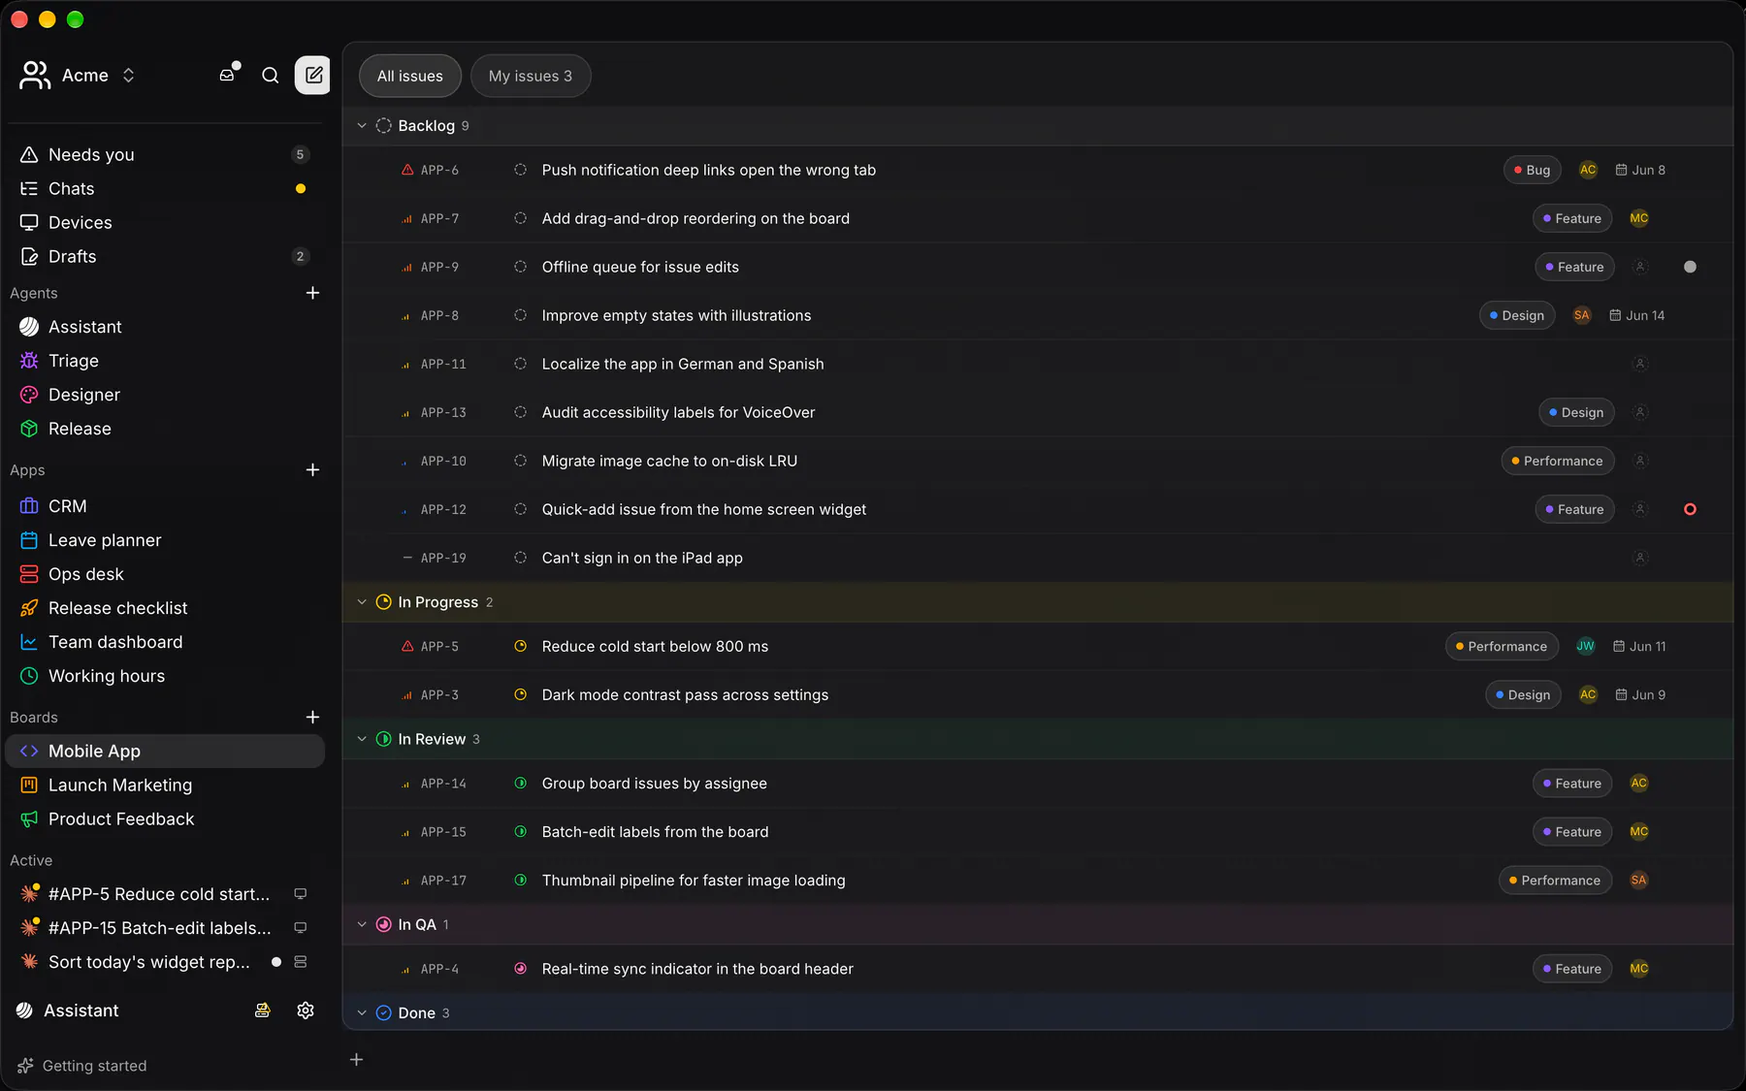
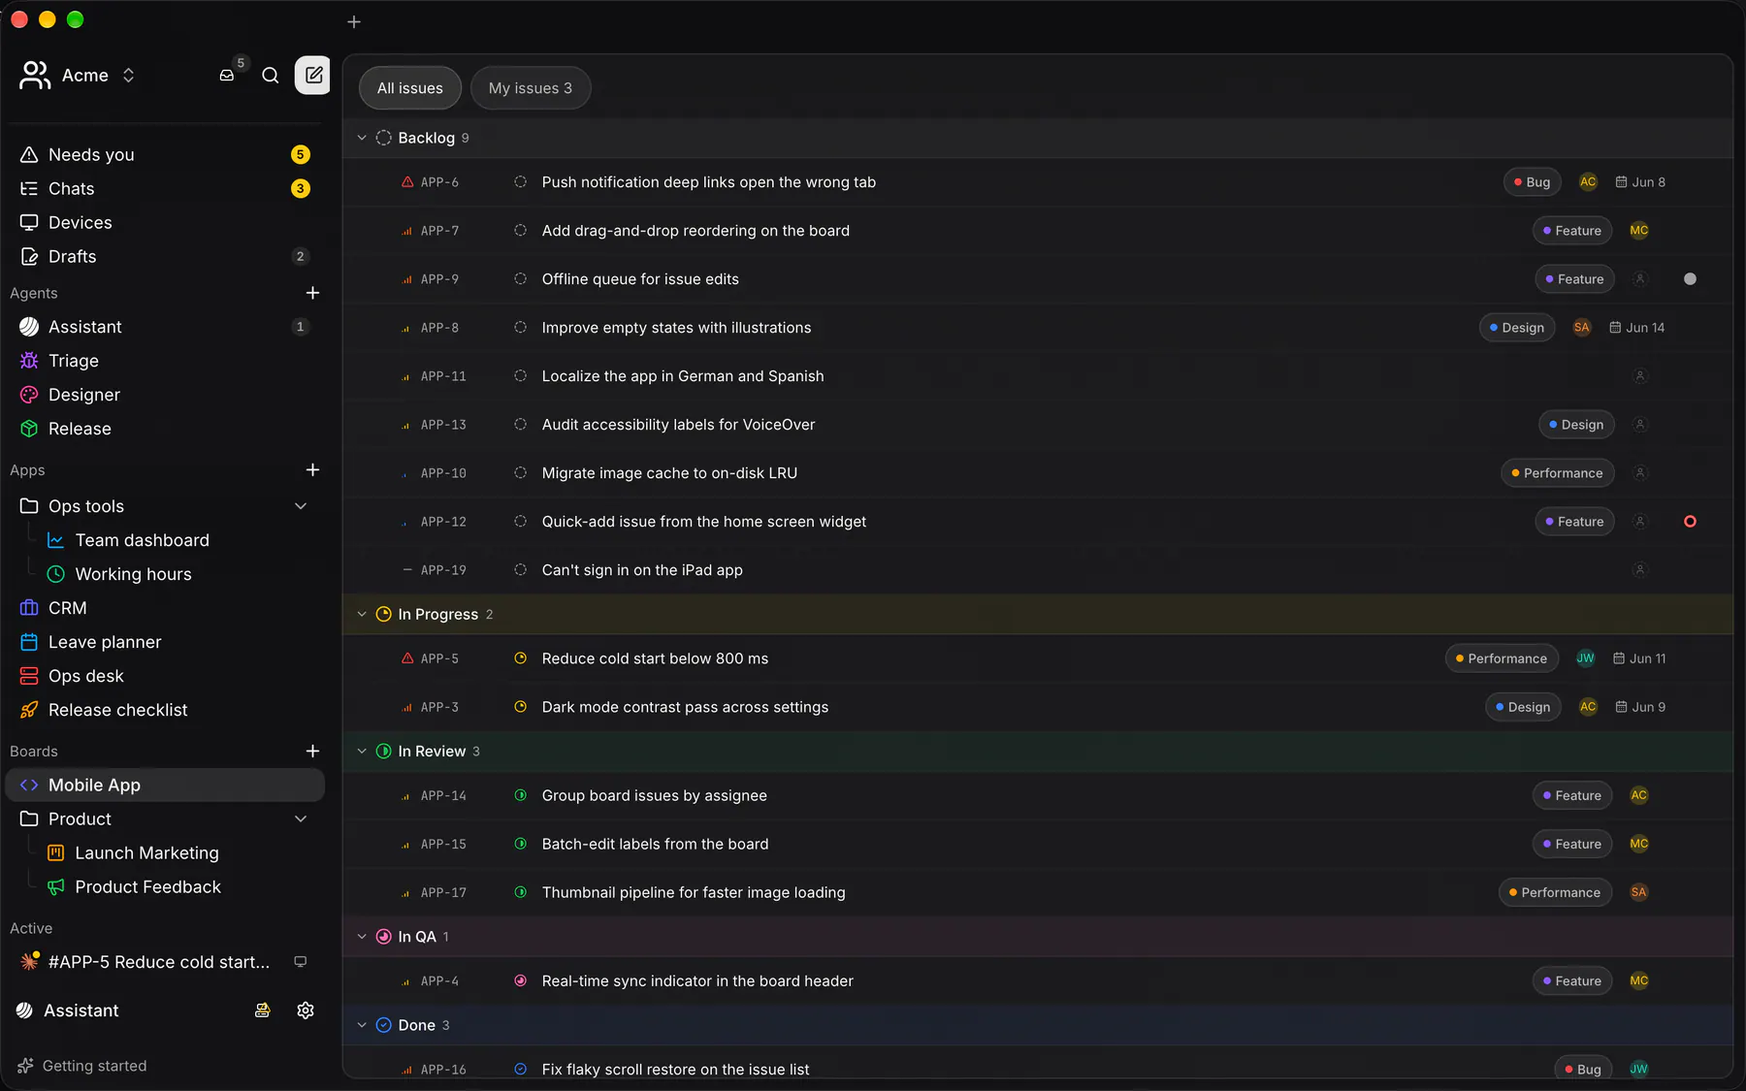
EXP-1832: desktop sidebar folders verified: the name Input's field part id (focus + read), leaving the name saves and Esc keeps it (as on the web), headless folder pictures + right-click Rename/Esc check, board desktop shot with the seeded folders

diff --git a/apps/web/src/routeTree.gen.ts b/apps/web/src/routeTree.gen.ts
@@ -67,7 +67,6 @@ import { Route as ApiShapesCiJobsRouteImport } from './routes/api/shapes/ci-jobs
 import { Route as ApiShapesCiRunsRouteImport } from './routes/api/shapes/ci-runs'
 import { Route as ApiShapesCommentsRouteImport } from './routes/api/shapes/comments'
 import { Route as ApiShapesComposerDraftsRouteImport } from './routes/api/shapes/composer-drafts'
-import { Route as ApiShapesSidebarLayoutRouteImport } from './routes/api/shapes/sidebar-layout'
 import { Route as ApiShapesConversationsRouteImport } from './routes/api/shapes/conversations'
 import { Route as ApiShapesDeviceWorktreesRouteImport } from './routes/api/shapes/device-worktrees'
 import { Route as ApiShapesDevicesRouteImport } from './routes/api/shapes/devices'
@@ -90,6 +89,7 @@ import { Route as ApiShapesPullRequestsRouteImport } from './routes/api/shapes/p
 import { Route as ApiShapesSessionIssuesRouteImport } from './routes/api/shapes/session-issues'
 import { Route as ApiShapesSessionReadsRouteImport } from './routes/api/shapes/session-reads'
 import { Route as ApiShapesSessionsRouteImport } from './routes/api/shapes/sessions'
+import { Route as ApiShapesSidebarLayoutRouteImport } from './routes/api/shapes/sidebar-layout'
 import { Route as ApiShapesSkillsRouteImport } from './routes/api/shapes/skills'
 import { Route as ApiShapesTeamInvitesRouteImport } from './routes/api/shapes/team-invites'
 import { Route as ApiShapesTeamMembersRouteImport } from './routes/api/shapes/team-members'
@@ -472,11 +472,6 @@ const ApiShapesComposerDraftsRoute = ApiShapesComposerDraftsRouteImport.update({
   path: '/api/shapes/composer-drafts',
   getParentRoute: () => rootRouteImport,
 } as any)
-const ApiShapesSidebarLayoutRoute = ApiShapesSidebarLayoutRouteImport.update({
-  id: '/api/shapes/sidebar-layout',
-  path: '/api/shapes/sidebar-layout',
-  getParentRoute: () => rootRouteImport,
-} as any)
 const ApiShapesConversationsRoute = ApiShapesConversationsRouteImport.update({
   id: '/api/shapes/conversations',
   path: '/api/shapes/conversations',
@@ -589,6 +584,11 @@ const ApiShapesSessionReadsRoute = ApiShapesSessionReadsRouteImport.update({
 const ApiShapesSessionsRoute = ApiShapesSessionsRouteImport.update({
   id: '/api/shapes/sessions',
   path: '/api/shapes/sessions',
+  getParentRoute: () => rootRouteImport,
+} as any)
+const ApiShapesSidebarLayoutRoute = ApiShapesSidebarLayoutRouteImport.update({
+  id: '/api/shapes/sidebar-layout',
+  path: '/api/shapes/sidebar-layout',
   getParentRoute: () => rootRouteImport,
 } as any)
 const ApiShapesSkillsRoute = ApiShapesSkillsRouteImport.update({
@@ -1093,7 +1093,6 @@ export interface FileRoutesByFullPath {
   '/api/shapes/ci-runs': typeof ApiShapesCiRunsRoute
   '/api/shapes/comments': typeof ApiShapesCommentsRoute
   '/api/shapes/composer-drafts': typeof ApiShapesComposerDraftsRoute
-  '/api/shapes/sidebar-layout': typeof ApiShapesSidebarLayoutRoute
   '/api/shapes/conversations': typeof ApiShapesConversationsRoute
   '/api/shapes/device-worktrees': typeof ApiShapesDeviceWorktreesRoute
   '/api/shapes/devices': typeof ApiShapesDevicesRoute
@@ -1116,6 +1115,7 @@ export interface FileRoutesByFullPath {
   '/api/shapes/session-issues': typeof ApiShapesSessionIssuesRoute
   '/api/shapes/session-reads': typeof ApiShapesSessionReadsRoute
   '/api/shapes/sessions': typeof ApiShapesSessionsRoute
+  '/api/shapes/sidebar-layout': typeof ApiShapesSidebarLayoutRoute
   '/api/shapes/skills': typeof ApiShapesSkillsRoute
   '/api/shapes/team-invites': typeof ApiShapesTeamInvitesRoute
   '/api/shapes/team-members': typeof ApiShapesTeamMembersRoute
@@ -1253,7 +1253,6 @@ export interface FileRoutesByTo {
   '/api/shapes/ci-runs': typeof ApiShapesCiRunsRoute
   '/api/shapes/comments': typeof ApiShapesCommentsRoute
   '/api/shapes/composer-drafts': typeof ApiShapesComposerDraftsRoute
-  '/api/shapes/sidebar-layout': typeof ApiShapesSidebarLayoutRoute
   '/api/shapes/conversations': typeof ApiShapesConversationsRoute
   '/api/shapes/device-worktrees': typeof ApiShapesDeviceWorktreesRoute
   '/api/shapes/devices': typeof ApiShapesDevicesRoute
@@ -1276,6 +1275,7 @@ export interface FileRoutesByTo {
   '/api/shapes/session-issues': typeof ApiShapesSessionIssuesRoute
   '/api/shapes/session-reads': typeof ApiShapesSessionReadsRoute
   '/api/shapes/sessions': typeof ApiShapesSessionsRoute
+  '/api/shapes/sidebar-layout': typeof ApiShapesSidebarLayoutRoute
   '/api/shapes/skills': typeof ApiShapesSkillsRoute
   '/api/shapes/team-invites': typeof ApiShapesTeamInvitesRoute
   '/api/shapes/team-members': typeof ApiShapesTeamMembersRoute
@@ -1418,7 +1418,6 @@ export interface FileRoutesById {
   '/api/shapes/ci-runs': typeof ApiShapesCiRunsRoute
   '/api/shapes/comments': typeof ApiShapesCommentsRoute
   '/api/shapes/composer-drafts': typeof ApiShapesComposerDraftsRoute
-  '/api/shapes/sidebar-layout': typeof ApiShapesSidebarLayoutRoute
   '/api/shapes/conversations': typeof ApiShapesConversationsRoute
   '/api/shapes/device-worktrees': typeof ApiShapesDeviceWorktreesRoute
   '/api/shapes/devices': typeof ApiShapesDevicesRoute
@@ -1441,6 +1440,7 @@ export interface FileRoutesById {
   '/api/shapes/session-issues': typeof ApiShapesSessionIssuesRoute
   '/api/shapes/session-reads': typeof ApiShapesSessionReadsRoute
   '/api/shapes/sessions': typeof ApiShapesSessionsRoute
+  '/api/shapes/sidebar-layout': typeof ApiShapesSidebarLayoutRoute
   '/api/shapes/skills': typeof ApiShapesSkillsRoute
   '/api/shapes/team-invites': typeof ApiShapesTeamInvitesRoute
   '/api/shapes/team-members': typeof ApiShapesTeamMembersRoute
@@ -1583,7 +1583,6 @@ export interface FileRouteTypes {
     | '/api/shapes/ci-runs'
     | '/api/shapes/comments'
     | '/api/shapes/composer-drafts'
-    | '/api/shapes/sidebar-layout'
     | '/api/shapes/conversations'
     | '/api/shapes/device-worktrees'
     | '/api/shapes/devices'
@@ -1606,6 +1605,7 @@ export interface FileRouteTypes {
     | '/api/shapes/session-issues'
     | '/api/shapes/session-reads'
     | '/api/shapes/sessions'
+    | '/api/shapes/sidebar-layout'
     | '/api/shapes/skills'
     | '/api/shapes/team-invites'
     | '/api/shapes/team-members'
@@ -1743,7 +1743,6 @@ export interface FileRouteTypes {
     | '/api/shapes/ci-runs'
     | '/api/shapes/comments'
     | '/api/shapes/composer-drafts'
-    | '/api/shapes/sidebar-layout'
     | '/api/shapes/conversations'
     | '/api/shapes/device-worktrees'
     | '/api/shapes/devices'
@@ -1766,6 +1765,7 @@ export interface FileRouteTypes {
     | '/api/shapes/session-issues'
     | '/api/shapes/session-reads'
     | '/api/shapes/sessions'
+    | '/api/shapes/sidebar-layout'
     | '/api/shapes/skills'
     | '/api/shapes/team-invites'
     | '/api/shapes/team-members'
@@ -1907,7 +1907,6 @@ export interface FileRouteTypes {
     | '/api/shapes/ci-runs'
     | '/api/shapes/comments'
     | '/api/shapes/composer-drafts'
-    | '/api/shapes/sidebar-layout'
     | '/api/shapes/conversations'
     | '/api/shapes/device-worktrees'
     | '/api/shapes/devices'
@@ -1930,6 +1929,7 @@ export interface FileRouteTypes {
     | '/api/shapes/session-issues'
     | '/api/shapes/session-reads'
     | '/api/shapes/sessions'
+    | '/api/shapes/sidebar-layout'
     | '/api/shapes/skills'
     | '/api/shapes/team-invites'
     | '/api/shapes/team-members'
@@ -2061,7 +2061,6 @@ export interface RootRouteChildren {
   ApiShapesCiRunsRoute: typeof ApiShapesCiRunsRoute
   ApiShapesCommentsRoute: typeof ApiShapesCommentsRoute
   ApiShapesComposerDraftsRoute: typeof ApiShapesComposerDraftsRoute
-  ApiShapesSidebarLayoutRoute: typeof ApiShapesSidebarLayoutRoute
   ApiShapesConversationsRoute: typeof ApiShapesConversationsRoute
   ApiShapesDeviceWorktreesRoute: typeof ApiShapesDeviceWorktreesRoute
   ApiShapesDevicesRoute: typeof ApiShapesDevicesRoute
@@ -2084,6 +2083,7 @@ export interface RootRouteChildren {
   ApiShapesSessionIssuesRoute: typeof ApiShapesSessionIssuesRoute
   ApiShapesSessionReadsRoute: typeof ApiShapesSessionReadsRoute
   ApiShapesSessionsRoute: typeof ApiShapesSessionsRoute
+  ApiShapesSidebarLayoutRoute: typeof ApiShapesSidebarLayoutRoute
   ApiShapesSkillsRoute: typeof ApiShapesSkillsRoute
   ApiShapesTeamInvitesRoute: typeof ApiShapesTeamInvitesRoute
   ApiShapesTeamMembersRoute: typeof ApiShapesTeamMembersRoute
@@ -2521,13 +2521,6 @@ declare module '@tanstack/react-router' {
       preLoaderRoute: typeof ApiShapesComposerDraftsRouteImport
       parentRoute: typeof rootRouteImport
     }
-    '/api/shapes/sidebar-layout': {
-      id: '/api/shapes/sidebar-layout'
-      path: '/api/shapes/sidebar-layout'
-      fullPath: '/api/shapes/sidebar-layout'
-      preLoaderRoute: typeof ApiShapesSidebarLayoutRouteImport
-      parentRoute: typeof rootRouteImport
-    }
     '/api/shapes/conversations': {
       id: '/api/shapes/conversations'
       path: '/api/shapes/conversations'
@@ -2680,6 +2673,13 @@ declare module '@tanstack/react-router' {
       path: '/api/shapes/sessions'
       fullPath: '/api/shapes/sessions'
       preLoaderRoute: typeof ApiShapesSessionsRouteImport
+      parentRoute: typeof rootRouteImport
+    }
+    '/api/shapes/sidebar-layout': {
+      id: '/api/shapes/sidebar-layout'
+      path: '/api/shapes/sidebar-layout'
+      fullPath: '/api/shapes/sidebar-layout'
+      preLoaderRoute: typeof ApiShapesSidebarLayoutRouteImport
       parentRoute: typeof rootRouteImport
     }
     '/api/shapes/skills': {
@@ -3492,7 +3492,6 @@ const rootRouteChildren: RootRouteChildren = {
   ApiShapesCiRunsRoute: ApiShapesCiRunsRoute,
   ApiShapesCommentsRoute: ApiShapesCommentsRoute,
   ApiShapesComposerDraftsRoute: ApiShapesComposerDraftsRoute,
-  ApiShapesSidebarLayoutRoute: ApiShapesSidebarLayoutRoute,
   ApiShapesConversationsRoute: ApiShapesConversationsRoute,
   ApiShapesDeviceWorktreesRoute: ApiShapesDeviceWorktreesRoute,
   ApiShapesDevicesRoute: ApiShapesDevicesRoute,
@@ -3515,6 +3514,7 @@ const rootRouteChildren: RootRouteChildren = {
   ApiShapesSessionIssuesRoute: ApiShapesSessionIssuesRoute,
   ApiShapesSessionReadsRoute: ApiShapesSessionReadsRoute,
   ApiShapesSessionsRoute: ApiShapesSessionsRoute,
+  ApiShapesSidebarLayoutRoute: ApiShapesSidebarLayoutRoute,
   ApiShapesSkillsRoute: ApiShapesSkillsRoute,
   ApiShapesTeamInvitesRoute: ApiShapesTeamInvitesRoute,
   ApiShapesTeamMembersRoute: ApiShapesTeamMembersRoute,

diff --git a/apps/desktop/crates/ui/src/shell_bench.rs b/apps/desktop/crates/ui/src/shell_bench.rs
@@ -517,3 +517,131 @@ fn shell_tab_placement() {
     std::mem::forget(cx);
     std::mem::forget(root);
 }
+
+/// #EXP-1832: the sidebar folders of the seeded demo (seed-screenshots.ts:
+/// board folder Product, app folder Ops tools), pictured at rest, folded,
+/// mid-drag (the line = reorder, the highlighted row = drop into) and with a
+/// fresh folder's name in place. The drags go through the real List drag core.
+#[test]
+#[ignore]
+fn shell_sidebar_folders() {
+    use gpui::{KeyDownEvent, Modifiers, MouseButton, MouseDownEvent, MouseMoveEvent, MouseUpEvent, PlatformInput};
+    let Some(dir) = std::env::var_os("EXP_SHELL_SHOTS") else { return };
+    let dir = PathBuf::from(dir);
+    let mut cx = headless();
+    cx.update(seeded);
+    let handle = open(&mut cx, size(px(SIDEBAR.0), px(SIDEBAR.1)));
+    let window: gpui::AnyWindowHandle = handle.into();
+    let region = cx.update(|cx| handle.entity(cx).expect("the rail").read(cx).region());
+    let surface = cx.update(|cx| region.read(cx).surface());
+    cx.update(|cx| surface.update(cx, |v, _| v.record_bounds(true)));
+    let settle = |cx: &mut HeadlessAppContext| {
+        for _ in 0..3 {
+            draw(window, cx);
+            cx.run_until_parked();
+        }
+    };
+    let shoot = |cx: &mut HeadlessAppContext, name: &str| {
+        let shot = cx.capture_screenshot(window).expect("the frame");
+        shot.save(dir.join(name)).expect("the PNG");
+    };
+    let show = |cx: &mut HeadlessAppContext, input: IdeSidebarInput| {
+        cx.update(|cx| region.update(cx, |region, cx| region.show(input, None, cx)));
+        settle(cx);
+    };
+    let bounds = |cx: &mut HeadlessAppContext, id: &str| cx.update(|cx| surface.read(cx).painted_bounds(id)).unwrap_or_else(|| panic!("{id} painted"));
+    let input = |cx: &mut HeadlessAppContext, event: PlatformInput| {
+        cx.update_window(window, |_, window, cx| {
+            window.dispatch_event(event, cx);
+        })
+        .expect("the window");
+        settle(cx);
+    };
+    let press = |cx: &mut HeadlessAppContext, at: gpui::Point<gpui::Pixels>| input(cx, PlatformInput::MouseDown(MouseDownEvent { button: MouseButton::Left, position: at, modifiers: Modifiers::default(), click_count: 1, first_mouse: false }));
+    let move_to = |cx: &mut HeadlessAppContext, at: gpui::Point<gpui::Pixels>| input(cx, PlatformInput::MouseMove(MouseMoveEvent { position: at, pressed_button: Some(MouseButton::Left), modifiers: Modifiers::default() }));
+
+    show(&mut cx, demo(Vec::new(), None));
+    shoot(&mut cx, "folders-rest.png");
+    show(&mut cx, demo(vec!["fa".into()], None));
+    shoot(&mut cx, "folders-folded.png");
+
+    // CRM lifted to Release checklist's top edge: a line, before it.
+    show(&mut cx, demo(Vec::new(), None));
+    let (from, to) = (bounds(&mut cx, "ide_app_row.x4"), bounds(&mut cx, "ide_app_row.x3"));
+    // Held by its bottom edge: the lifted copy rides above the pointer.
+    let grab = gpui::point(from.center().x, from.origin.y + from.size.height - px(2.));
+    press(&mut cx, grab);
+    move_to(&mut cx, gpui::point(grab.x, grab.y - px(6.)));
+    move_to(&mut cx, gpui::point(to.center().x, to.origin.y + px(3.)));
+    shoot(&mut cx, "folders-drag-line.png");
+    cx.update(|cx| surface.update(cx, |v, cx| v.list_drag_cancel(cx)));
+    settle(&mut cx);
+
+    // Leave planner held over Ops desk's middle: the row lights, drop INTO.
+    let (from, to) = (bounds(&mut cx, "ide_app_row.x5"), bounds(&mut cx, "ide_app_row.x6"));
+    let grab = gpui::point(from.center().x, from.origin.y + from.size.height - px(2.));
+    press(&mut cx, grab);
+    move_to(&mut cx, gpui::point(grab.x, grab.y + px(6.)));
+    move_to(&mut cx, gpui::point(to.center().x, to.origin.y + to.size.height * 0.3));
+    shoot(&mut cx, "folders-drag-into.png");
+    cx.update(|cx| surface.update(cx, |v, cx| v.list_drag_cancel(cx)));
+    settle(&mut cx);
+
+    // A folder's right-click menu: Rename puts its name in place, Esc keeps it.
+    let folder = bounds(&mut cx, "ide_app_folder_row.fa");
+    input(&mut cx, PlatformInput::MouseDown(MouseDownEvent { button: MouseButton::Right, position: folder.center(), modifiers: Modifiers::default(), click_count: 1, first_mouse: false }));
+    input(&mut cx, PlatformInput::MouseUp(MouseUpEvent { button: MouseButton::Right, position: folder.center(), modifiers: Modifiers::default(), click_count: 1 }));
+    assert!(cx.update(|cx| surface.read(cx).layers().iter().any(|l| l.owner == "ide_app_folder_menu.fa")), "the folder menu opened");
+    let rename = bounds(&mut cx, "ide_app_folder_menu.fa.item.0").center();
+    press(&mut cx, rename);
+    input(&mut cx, PlatformInput::MouseUp(MouseUpEvent { button: MouseButton::Left, position: rename, modifiers: Modifiers::default(), click_count: 1 }));
+    let name = "ide_app_folder_name.fa.field";
+    assert_eq!(cx.update(|cx| surface.read(cx).field_text(name, cx)).as_deref(), Some("Ops tools"), "Rename edits the name in place");
+    cx.update_window(window, |_, window, cx| {
+        assert!(surface.update(cx, |v, cx| v.focus_field(name, window, cx)));
+    })
+    .expect("the window");
+    settle(&mut cx);
+    input(&mut cx, PlatformInput::KeyDown(KeyDownEvent { keystroke: gpui::Keystroke::parse("escape").unwrap(), is_held: false, prefer_character_input: false }));
+    assert_eq!(cx.update(|cx| surface.read(cx).field_text(name, cx)), None, "Esc ends the edit");
+
+    // That drop: both rows in a new folder, its name an Input in place.
+    let mut after = demo(Vec::new(), None);
+    after.layout.app.extend([entry("fn", "folder", None, None, None, 3.), entry("e9", "item", Some("x6"), Some("fn"), None, 1.), entry("e10", "item", Some("x5"), Some("fn"), None, 2.)]);
+    show(&mut cx, after);
+    cx.update(|cx| region.update(cx, |region, cx| region.show_editing(Some("fn"), cx)));
+    settle(&mut cx);
+    // The region focuses it on the next frame, which a headless window never
+    // requests: focus the same field by hand.
+    cx.update_window(window, |_, window, cx| {
+        assert!(surface.update(cx, |v, cx| v.focus_field("ide_app_folder_name.fn.field", window, cx)), "the name Input");
+    })
+    .expect("the window");
+    settle(&mut cx);
+    assert_eq!(cx.update(|cx| surface.read(cx).field_text("ide_app_folder_name.fn.field", cx)).as_deref(), Some("New folder"));
+    shoot(&mut cx, "folders-rename.png");
+    std::mem::forget(cx);
+}
+
+/// The seeded demo's rows (seed-screenshots.ts), Mobile App open.
+fn demo(closed: Vec<String>, editing: Option<&str>) -> IdeSidebarInput {
+    let agent = |id: &str, name: &str| IdeAgentInput { id: id.into(), name: name.into(), icon: "settings-agents".into(), needs_you: false, unread: 0 };
+    let board = |id: &str, name: &str| IdeBoardInput { id: id.into(), name: name.into(), icon: format!("ide:board:{id}") };
+    let app = |id: &str, name: &str| IdeAppInput { id: id.into(), slug: id.into(), name: name.into(), icon: "ui-file".into() };
+    IdeSidebarInput {
+        screen: "board:b1".into(),
+        chats: IdeCount { count: 0, tone: IdeTone::Muted },
+        owner: true,
+        agents: vec![agent("a1", "Triage"), agent("a2", "Release"), agent("a3", "Designer")],
+        apps: vec![app("x1", "Working hours"), app("x2", "Team dashboard"), app("x3", "Release checklist"), app("x4", "CRM"), app("x5", "Leave planner"), app("x6", "Ops desk")],
+        boards: vec![board("b1", "Mobile App"), board("b2", "Launch Marketing"), board("b3", "Product Feedback")],
+        layout: IdeLayout {
+            board: vec![entry("e1", "item", Some("b1"), None, None, 1.), entry("fb", "folder", None, None, Some("Product"), 2.), entry("e2", "item", Some("b2"), Some("fb"), None, 1.), entry("e3", "item", Some("b3"), Some("fb"), None, 2.)],
+            agent: Vec::new(),
+            app: vec![entry("fa", "folder", None, None, Some("Ops tools"), 1.), entry("e4", "item", Some("x2"), Some("fa"), None, 1.), entry("e5", "item", Some("x1"), Some("fa"), None, 2.)],
+        },
+        closed,
+        editing_folder: editing.map(Into::into),
+        ..Default::default()
+    }
+}

diff --git a/apps/desktop/crates/ui/src/shell_regions.rs b/apps/desktop/crates/ui/src/shell_regions.rs
@@ -450,6 +450,18 @@ impl SidebarRegion {
         self.push(cx);
     }
 
+    /// #EXP-1832: the document's view (the pictures drag its rows) and a
+    /// folder's name in place.
+    #[cfg(test)]
+    pub(crate) fn surface(&self) -> Entity<SurfaceView> {
+        self.view.clone()
+    }
+
+    #[cfg(test)]
+    pub(crate) fn show_editing(&mut self, id: Option<&str>, cx: &mut gpui::Context<Self>) {
+        self.edit_folder(id.map(str::to_string), cx);
+    }
+
     fn push(&mut self, cx: &mut gpui::Context<Self>) {
         let assistant = self.assistant.as_ref().map(|(id, name)| (id.as_str(), name.as_str()));
         self.input.editing_folder = self.editing.borrow().clone();
@@ -498,7 +510,8 @@ impl SidebarRegion {
         let section = ["boards", "agents", "apps"].into_iter().zip(["board", "agent", "app"]).find(|(rows, _)| value[*rows]["rows"].as_array().into_iter().flatten().any(|row| row["id"] == id.as_str() && row["editing"] == true));
         let Some((_, section)) = section else { return };
         self.focus_pending = false;
-        let field = format!("ide_{section}_folder_name.{id}");
+        // The Input's text field is its `field` part.
+        let field = format!("ide_{section}_folder_name.{id}.field");
         let (view, handle) = (self.view.clone(), self.window);
         // Outside this update (the rail may be mid-render): the field exists
         // once the next frame has drawn the row.
@@ -553,9 +566,18 @@ impl SidebarRegion {
 }
 
 impl Render for SidebarRegion {
-    fn render(&mut self, _: &mut Window, _: &mut gpui::Context<Self>) -> impl IntoElement {
+    fn render(&mut self, _: &mut Window, cx: &mut gpui::Context<Self>) -> impl IntoElement {
         let _span = tracing::trace_span!("render", view = "SidebarRegion").entered();
-        uicore_gpui::inline::region(&self.view)
+        // #EXP-1832: Esc in a folder's name Input keeps the name it had.
+        div()
+            .size_full()
+            .on_key_down(cx.listener(|region, event: &gpui::KeyDownEvent, _, cx| {
+                if event.keystroke.key == "escape" && region.editing.borrow().is_some() {
+                    region.edit_folder(None, cx);
+                    cx.stop_propagation();
+                }
+            }))
+            .child(uicore_gpui::inline::region(&self.view))
     }
 }
 
@@ -757,10 +779,15 @@ impl HostPlugin for RegionHost {
                             rename_folder(id, sidebar_folder_name(value.as_deref().unwrap_or_default()), cx);
                             let _ = region.update(cx, |region, cx| region.edit_folder(None, cx));
                         }
-                        "cancel" => {
-                            if editing.borrow().as_deref() == Some(id.as_str()) {
-                                let _ = region.update(cx, |region, cx| region.edit_folder(None, cx));
+                        // Leaving the Input saves what it holds (web's blur).
+                        "leave" => {
+                            if editing.borrow().as_deref() != Some(id.as_str()) {
+                                return;
                             }
+                            let field = format!("ide_{}_folder_name.{id}.field", section.as_str());
+                            let Some(value) = region.read_with(cx, |region, cx| region.view.read(cx).field_text(&field, cx)).ok().flatten() else { return };
+                            rename_folder(id, sidebar_folder_name(&value), cx);
+                            let _ = region.update(cx, |region, cx| region.edit_folder(None, cx));
                         }
                         "ungroup" => {
                             let Some(items) = region.read_with(cx, |region, _| section_items(&region.input, section)).ok() else { return };
